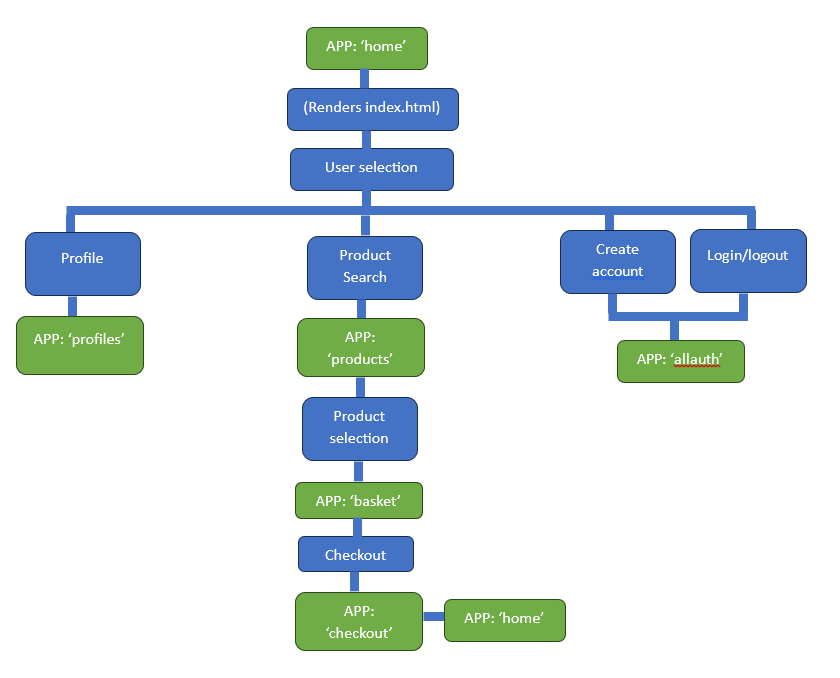
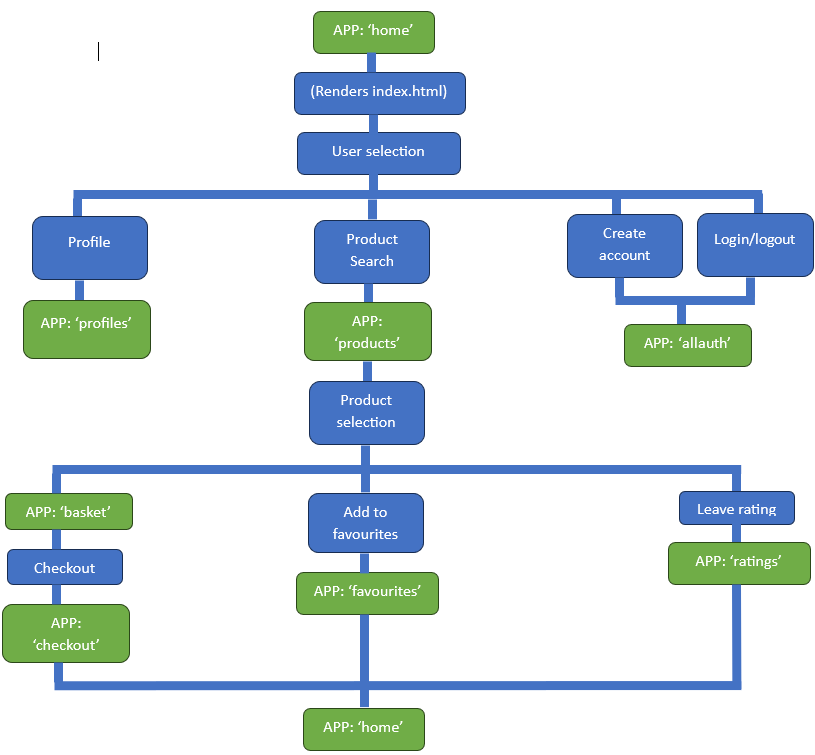
UPDATED images folder with new designs following mentor conference. UPDATED readme with updated content

diff --git a/README.md b/README.md
@@ -214,6 +214,17 @@ Index.html / Home (Extra Small View)
 
 [Index xsm](/local_legends/static/images/wireframes/index-mobile)
 
+### Custom Models
+
+I plan to have two additional models that are fully customized: favourites and ratings
+
+#### Favourites
+
+The user will be able to browse products and then add one as a favourite. This will add that product to the user's favourites section so it can be accessed easily if they should wish to buy that product. This will be a one-to-one relationship, so a user can only have one favourites list, and each seperate favourites list belongs to only one user. 
+
+#### Ratings
+
+In my previous project, ratings were what the project was all about. In MegaBytes, they will be used as a useful addition but not central to the theme. They will be an added option for users when browsing for products or having purchased an item. Ratings may be a many-to-one relationship where a user can leave many ratings. 
 
 ### App interconnectivity
 
@@ -224,7 +235,7 @@ I have set out how I expect my apps to connect to one another based on the user 
 
 ### Database Design
 
-The initial plans for the database were designed in Microsoft Access. I used this program because I was quite familiar with it, having taught its use for years. My project will use a Relational Database design. There will be five tables for admins, users, approvals, restaurants and reviews, each with a primary key.
+The initial plans for the database were designed in Microsoft Access. I used this program because I was quite familiar with it, having taught its use for years. My project will use a Relational Database design. The Ratings and Favourites tables will form part of my two custom models
 
 ![Relationships Database Design](/media/images/concept/database-relation-design.png)
 
@@ -237,6 +248,10 @@ The initial plans for the database were designed in Microsoft Access. I used thi
 ![Basket Table Design](/media/images/concept/basket-table-design.png)
 
 ![Checkout Table Design](/media/images/concept/checkout-table-design.png)
+
+![Ratings Table Design](/media/images/concept/ratings-table-design.png)
+
+![Favourites Table Design](/media/images/concept/favourites-table-design.png)
 
 It should be noted here that although the designs say 'Number' on several data types, the data types in the final product will be Integer. In addition, the 'Text' and 'Long Text' types will be limited by character limits which is not visible on these designs.
 
